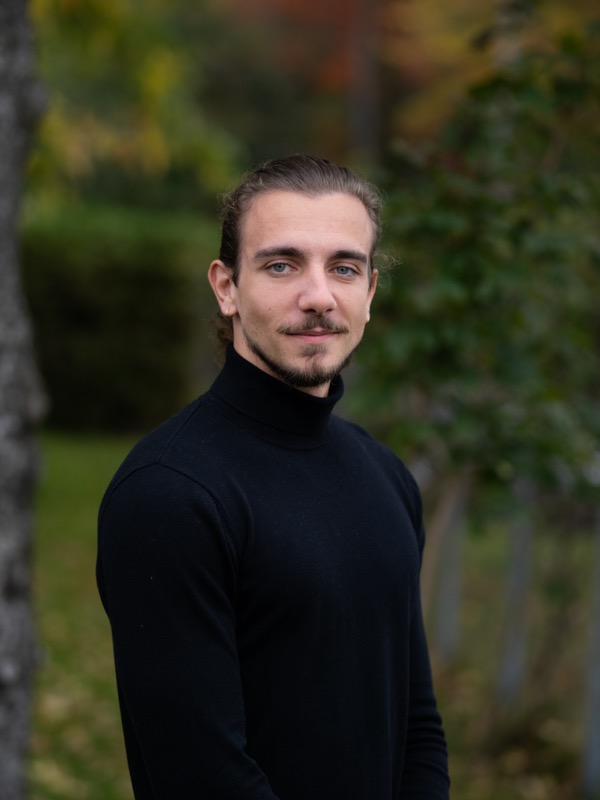
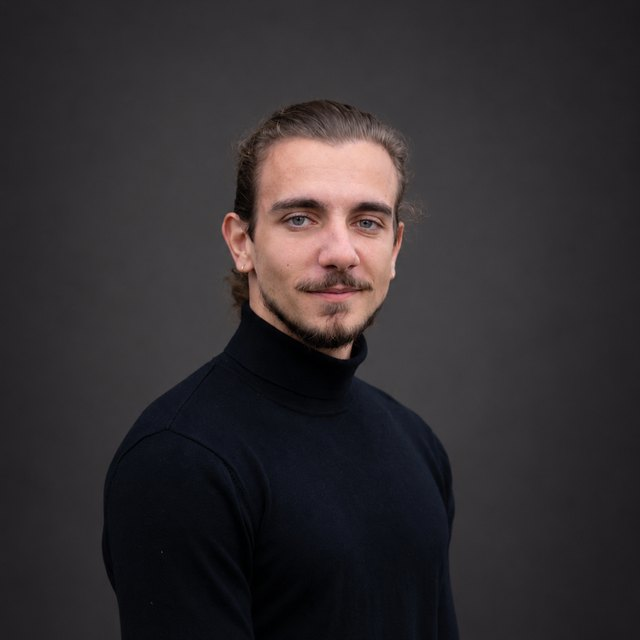
Liens reseaux sociaux, nouvelle photo de Benjamin et page Turing Inc.

diff --git a/turing.html b/turing.html
@@ -1,0 +1,145 @@
+<!DOCTYPE html>
+<html lang="fr">
+<head>
+    <meta charset="UTF-8">
+    <meta name="viewport" content="width=device-width, initial-scale=1.0">
+    <title>Turing Inc. — L'entreprise derrière MIA</title>
+    <meta name="description" content="Turing Inc., entreprise québécoise qui conçoit des solutions d'intelligence artificielle pour réduire la charge mentale des PME et TPE. MIA est son premier produit.">
+    <link rel="stylesheet" href="styles.css">
+    <link rel="preconnect" href="https://fonts.googleapis.com">
+    <link rel="preconnect" href="https://fonts.gstatic.com" crossorigin>
+    <link href="https://fonts.googleapis.com/css2?family=Inter:wght@300;400;500;600;700;800;900&display=swap" rel="stylesheet">
+    <link rel="icon" type="image/png" href="logo.png">
+    <link rel="apple-touch-icon" href="logo.png">
+</head>
+<body>
+    <!-- Navigation -->
+    <nav class="navbar">
+        <div class="container nav-container">
+            <a href="index.html" class="nav-logo">
+                <img src="logo.png" alt="MIA" class="logo-icon" width="53" height="32">
+                <span class="logo-text">MIA</span>
+            </a>
+            <ul class="nav-links">
+                <li><a href="index.html#tableau-de-bord">Tableau de bord</a></li>
+                <li><a href="index.html#features">Fonctionnalités</a></li>
+                <li><a href="index.html#how-it-works">Comment ça marche</a></li>
+                <li><a href="index.html#fondateurs">Nos fondateurs</a></li>
+                <li><a href="index.html#tarifs">Tarifs</a></li>
+                <li><a href="index.html#pilote" class="btn btn-nav">Devenir entreprise pilote <span class="btn-arrow">&rarr;</span></a></li>
+            </ul>
+            <button class="mobile-menu-btn" aria-label="Menu">
+                <span></span>
+                <span></span>
+                <span></span>
+            </button>
+        </div>
+    </nav>
+
+    <main class="about-page">
+        <section class="about-hero">
+            <div class="container about-container">
+                <span class="section-badge">À propos</span>
+                <h1 class="about-title">Turing Inc.</h1>
+                <p class="about-lead">MIA est développée et exploitée par Turing Inc., une entreprise par actions constituée au Québec, spécialisée dans la création de solutions d'intelligence artificielle destinées aux entrepreneurs.</p>
+            </div>
+        </section>
+
+        <section class="about-body">
+            <div class="container about-container">
+                <div class="about-block">
+                    <h2>Notre mission</h2>
+                    <p>Concevoir des outils qui réduisent la charge mentale des PME et TPE. Des solutions pragmatiques, ancrées dans la réalité du terrain, qui utilisent l'IA comme levier d'assistance et non comme substitut humain.</p>
+                </div>
+                <div class="about-block">
+                    <h2>Nos produits</h2>
+                    <p>MIA est notre premier produit. D'autres suivront.</p>
+                </div>
+                <div class="about-block">
+                    <h2>Notre équipe</h2>
+                    <p>Turing Inc. est représentée par Benjamin Taillefer et Julien D'Eer, au développement des affaires, et Maxime Vitellaro et Albert Bitreyeson au développement technologique.</p>
+                    <a href="index.html#fondateurs" class="about-link">Rencontrer les fondateurs <span class="btn-arrow">&rarr;</span></a>
+                </div>
+                <div class="about-contact">
+                    <span>Québec, Canada</span>
+                    <span aria-hidden="true">&middot;</span>
+                    <a href="mailto:contact@miacm.ca">contact@miacm.ca</a>
+                </div>
+            </div>
+        </section>
+    </main>
+
+    <!-- Footer -->
+    <footer class="footer">
+        <div class="container">
+            <div class="footer-main">
+                <div class="footer-brand">
+                    <a href="index.html" class="footer-logo">
+                        <img src="logo.png" alt="MIA" width="53" height="32">
+                        <span>MIA</span>
+                    </a>
+                    <p>Votre réputation ne peut pas attendre.</p>
+                    <ul class="footer-social" aria-label="MIA sur les réseaux sociaux">
+                        <li><a href="https://www.linkedin.com/company/mia-par-turing-inc/" target="_blank" rel="noopener" aria-label="LinkedIn">
+                            <svg viewBox="0 0 24 24" width="18" height="18" fill="currentColor" aria-hidden="true"><path d="M20.45 20.45h-3.56v-5.57c0-1.33-.03-3.04-1.85-3.04-1.85 0-2.14 1.45-2.14 2.94v5.67H9.35V9h3.41v1.56h.05c.48-.9 1.64-1.85 3.37-1.85 3.6 0 4.27 2.37 4.27 5.46v6.28zM5.34 7.43a2.06 2.06 0 1 1 0-4.13 2.06 2.06 0 0 1 0 4.13zM7.12 20.45H3.56V9h3.56v11.45zM22.22 0H1.77C.79 0 0 .77 0 1.73v20.54C0 23.23.79 24 1.77 24h20.45c.98 0 1.78-.77 1.78-1.73V1.73C24 .77 23.2 0 22.22 0z"/></svg>
+                        </a></li>
+                        <li><a href="https://www.facebook.com/profile.php?id=61594620976619" target="_blank" rel="noopener" aria-label="Facebook">
+                            <svg viewBox="0 0 24 24" width="18" height="18" fill="currentColor" aria-hidden="true"><path d="M24 12.07C24 5.41 18.63 0 12 0S0 5.41 0 12.07C0 18.1 4.39 23.1 10.13 24v-8.44H7.08v-3.49h3.05V9.41c0-3.02 1.79-4.69 4.53-4.69 1.31 0 2.68.24 2.68.24v2.97h-1.51c-1.49 0-1.96.93-1.96 1.89v2.26h3.33l-.53 3.49h-2.8V24C19.61 23.1 24 18.1 24 12.07z"/></svg>
+                        </a></li>
+                        <li><a href="https://www.instagram.com/mia_turinginc/" target="_blank" rel="noopener" aria-label="Instagram">
+                            <svg viewBox="0 0 24 24" width="18" height="18" fill="currentColor" aria-hidden="true"><path d="M12 2.16c3.2 0 3.58.01 4.85.07 1.17.05 1.8.25 2.23.41.56.22.96.48 1.38.9.42.42.68.82.9 1.38.16.42.36 1.06.41 2.23.06 1.27.07 1.65.07 4.85s-.01 3.58-.07 4.85c-.05 1.17-.25 1.8-.41 2.23-.22.56-.48.96-.9 1.38-.42.42-.82.68-1.38.9-.42.16-1.06.36-2.23.41-1.27.06-1.65.07-4.85.07s-3.58-.01-4.85-.07c-1.17-.05-1.8-.25-2.23-.41a3.72 3.72 0 0 1-1.38-.9 3.72 3.72 0 0 1-.9-1.38c-.16-.42-.36-1.06-.41-2.23C2.17 15.58 2.16 15.2 2.16 12s.01-3.58.07-4.85c.05-1.17.25-1.8.41-2.23.22-.56.48-.96.9-1.38.42-.42.82-.68 1.38-.9.42-.16 1.06-.36 2.23-.41C8.42 2.17 8.8 2.16 12 2.16M12 0C8.74 0 8.33.01 7.05.07 5.78.13 4.9.33 4.14.63a5.88 5.88 0 0 0-2.13 1.38A5.88 5.88 0 0 0 .63 4.14C.33 4.9.13 5.78.07 7.05.01 8.33 0 8.74 0 12s.01 3.67.07 4.95c.06 1.27.26 2.15.56 2.91.31.79.72 1.46 1.38 2.13a5.88 5.88 0 0 0 2.13 1.38c.76.3 1.64.5 2.91.56C8.33 23.99 8.74 24 12 24s3.67-.01 4.95-.07c1.27-.06 2.15-.26 2.91-.56a5.88 5.88 0 0 0 2.13-1.38 5.88 5.88 0 0 0 1.38-2.13c.3-.76.5-1.64.56-2.91.06-1.28.07-1.69.07-4.95s-.01-3.67-.07-4.95c-.06-1.27-.26-2.15-.56-2.91a5.88 5.88 0 0 0-1.38-2.13A5.88 5.88 0 0 0 19.86.63C19.1.33 18.22.13 16.95.07 15.67.01 15.26 0 12 0zm0 5.84a6.16 6.16 0 1 0 0 12.32 6.16 6.16 0 0 0 0-12.32zM12 16a4 4 0 1 1 0-8 4 4 0 0 1 0 8zm6.41-11.85a1.44 1.44 0 1 0 0 2.88 1.44 1.44 0 0 0 0-2.88z"/></svg>
+                        </a></li>
+                    </ul>
+                </div>
+                <div class="footer-links">
+                    <div class="footer-col">
+                        <h4>Produit</h4>
+                        <ul>
+                            <li><a href="index.html#features">Fonctionnalités</a></li>
+                            <li><a href="index.html#how-it-works">Comment ça marche</a></li>
+                            <li><a href="index.html#tarifs">Tarifs</a></li>
+                        </ul>
+                    </div>
+                    <div class="footer-col">
+                        <h4>Entreprise</h4>
+                        <ul>
+                            <li><a href="index.html#fondateurs">Nos fondateurs</a></li>
+                            <li><a href="turing.html">Turing Inc.</a></li>
+                            <li><a href="index.html#pilote">Devenir pilote</a></li>
+                            <li><a href="mailto:contact@miacm.ca">Contact</a></li>
+                        </ul>
+                    </div>
+                    <div class="footer-col">
+                        <h4>Légal</h4>
+                        <ul>
+                            <li><a href="politique-de-confidentialite.pdf" target="_blank" rel="noopener">Confidentialité</a></li>
+                            <li><a href="conditions-generales-utilisation.pdf" target="_blank" rel="noopener">Conditions</a></li>
+                        </ul>
+                    </div>
+                </div>
+            </div>
+            <div class="footer-bottom">
+                <p>&copy; 2026 MIA. Tous droits réservés. Produit créé par <a href="turing.html" class="footer-turing">Turing Inc.</a></p>
+                <a href="mailto:contact@miacm.ca" class="footer-email">contact@miacm.ca</a>
+            </div>
+        </div>
+    </footer>
+
+    <script>
+        // Mobile menu
+        const mobileMenuBtn = document.querySelector('.mobile-menu-btn');
+        const navLinks = document.querySelector('.nav-links');
+
+        mobileMenuBtn?.addEventListener('click', () => {
+            navLinks.classList.toggle('active');
+            mobileMenuBtn.classList.toggle('active');
+        });
+
+        // Navbar scroll effect
+        const navbar = document.querySelector('.navbar');
+        const updateNavbar = () => navbar.classList.toggle('scrolled', window.pageYOffset > 50);
+        window.addEventListener('scroll', updateNavbar);
+        updateNavbar();
+    </script>
+</body>
+</html>

diff --git a/index.html b/index.html
@@ -528,6 +528,17 @@
                         <span>MIA</span>
                     </a>
                     <p>Votre réputation ne peut pas attendre.</p>
+                    <ul class="footer-social" aria-label="MIA sur les réseaux sociaux">
+                        <li><a href="https://www.linkedin.com/company/mia-par-turing-inc/" target="_blank" rel="noopener" aria-label="LinkedIn">
+                            <svg viewBox="0 0 24 24" width="18" height="18" fill="currentColor" aria-hidden="true"><path d="M20.45 20.45h-3.56v-5.57c0-1.33-.03-3.04-1.85-3.04-1.85 0-2.14 1.45-2.14 2.94v5.67H9.35V9h3.41v1.56h.05c.48-.9 1.64-1.85 3.37-1.85 3.6 0 4.27 2.37 4.27 5.46v6.28zM5.34 7.43a2.06 2.06 0 1 1 0-4.13 2.06 2.06 0 0 1 0 4.13zM7.12 20.45H3.56V9h3.56v11.45zM22.22 0H1.77C.79 0 0 .77 0 1.73v20.54C0 23.23.79 24 1.77 24h20.45c.98 0 1.78-.77 1.78-1.73V1.73C24 .77 23.2 0 22.22 0z"/></svg>
+                        </a></li>
+                        <li><a href="https://www.facebook.com/profile.php?id=61594620976619" target="_blank" rel="noopener" aria-label="Facebook">
+                            <svg viewBox="0 0 24 24" width="18" height="18" fill="currentColor" aria-hidden="true"><path d="M24 12.07C24 5.41 18.63 0 12 0S0 5.41 0 12.07C0 18.1 4.39 23.1 10.13 24v-8.44H7.08v-3.49h3.05V9.41c0-3.02 1.79-4.69 4.53-4.69 1.31 0 2.68.24 2.68.24v2.97h-1.51c-1.49 0-1.96.93-1.96 1.89v2.26h3.33l-.53 3.49h-2.8V24C19.61 23.1 24 18.1 24 12.07z"/></svg>
+                        </a></li>
+                        <li><a href="https://www.instagram.com/mia_turinginc/" target="_blank" rel="noopener" aria-label="Instagram">
+                            <svg viewBox="0 0 24 24" width="18" height="18" fill="currentColor" aria-hidden="true"><path d="M12 2.16c3.2 0 3.58.01 4.85.07 1.17.05 1.8.25 2.23.41.56.22.96.48 1.38.9.42.42.68.82.9 1.38.16.42.36 1.06.41 2.23.06 1.27.07 1.65.07 4.85s-.01 3.58-.07 4.85c-.05 1.17-.25 1.8-.41 2.23-.22.56-.48.96-.9 1.38-.42.42-.82.68-1.38.9-.42.16-1.06.36-2.23.41-1.27.06-1.65.07-4.85.07s-3.58-.01-4.85-.07c-1.17-.05-1.8-.25-2.23-.41a3.72 3.72 0 0 1-1.38-.9 3.72 3.72 0 0 1-.9-1.38c-.16-.42-.36-1.06-.41-2.23C2.17 15.58 2.16 15.2 2.16 12s.01-3.58.07-4.85c.05-1.17.25-1.8.41-2.23.22-.56.48-.96.9-1.38.42-.42.82-.68 1.38-.9.42-.16 1.06-.36 2.23-.41C8.42 2.17 8.8 2.16 12 2.16M12 0C8.74 0 8.33.01 7.05.07 5.78.13 4.9.33 4.14.63a5.88 5.88 0 0 0-2.13 1.38A5.88 5.88 0 0 0 .63 4.14C.33 4.9.13 5.78.07 7.05.01 8.33 0 8.74 0 12s.01 3.67.07 4.95c.06 1.27.26 2.15.56 2.91.31.79.72 1.46 1.38 2.13a5.88 5.88 0 0 0 2.13 1.38c.76.3 1.64.5 2.91.56C8.33 23.99 8.74 24 12 24s3.67-.01 4.95-.07c1.27-.06 2.15-.26 2.91-.56a5.88 5.88 0 0 0 2.13-1.38 5.88 5.88 0 0 0 1.38-2.13c.3-.76.5-1.64.56-2.91.06-1.28.07-1.69.07-4.95s-.01-3.67-.07-4.95c-.06-1.27-.26-2.15-.56-2.91a5.88 5.88 0 0 0-1.38-2.13A5.88 5.88 0 0 0 19.86.63C19.1.33 18.22.13 16.95.07 15.67.01 15.26 0 12 0zm0 5.84a6.16 6.16 0 1 0 0 12.32 6.16 6.16 0 0 0 0-12.32zM12 16a4 4 0 1 1 0-8 4 4 0 0 1 0 8zm6.41-11.85a1.44 1.44 0 1 0 0 2.88 1.44 1.44 0 0 0 0-2.88z"/></svg>
+                        </a></li>
+                    </ul>
                 </div>
                 <div class="footer-links">
                     <div class="footer-col">
@@ -542,6 +553,7 @@
                         <h4>Entreprise</h4>
                         <ul>
                             <li><a href="#fondateurs">Nos fondateurs</a></li>
+                            <li><a href="turing.html">Turing Inc.</a></li>
                             <li><a href="#pilote">Devenir pilote</a></li>
                             <li><a href="mailto:contact@miacm.ca">Contact</a></li>
                         </ul>
@@ -556,7 +568,7 @@
                 </div>
             </div>
             <div class="footer-bottom">
-                <p>&copy; 2026 MIA. Tous droits réservés. Produit créé par Turing Inc.</p>
+                <p>&copy; 2026 MIA. Tous droits réservés. Produit créé par <a href="turing.html" class="footer-turing">Turing Inc.</a></p>
                 <a href="mailto:contact@miacm.ca" class="footer-email">contact@miacm.ca</a>
             </div>
         </div>

diff --git a/styles.css b/styles.css
@@ -1054,6 +1054,50 @@ h3 { font-size: clamp(1.125rem, 2vw, 1.375rem); }
     opacity: 0.9;
 }
 
+/* About page (turing.html) */
+.about-container { max-width: 760px; }
+.about-hero {
+    padding: 160px 0 64px;
+    background: var(--bg-light);
+}
+.about-title { margin-bottom: 20px; }
+.about-lead {
+    font-size: 1.1875rem;
+    line-height: 1.7;
+    color: var(--text-secondary);
+}
+.about-body { padding: 64px 0 96px; }
+.about-block {
+    padding: 32px 0;
+    border-bottom: 1px solid var(--border);
+}
+.about-block:first-child { padding-top: 0; }
+.about-block h2 {
+    font-size: clamp(1.25rem, 2.5vw, 1.5rem);
+    margin-bottom: 12px;
+}
+.about-block p {
+    font-size: 1.0625rem;
+    line-height: 1.7;
+    color: var(--text-secondary);
+}
+.about-link {
+    display: inline-flex;
+    gap: 6px;
+    margin-top: 16px;
+    font-weight: 600;
+    color: var(--primary-dark);
+}
+.about-link:hover .btn-arrow { transform: translateX(3px); }
+.about-contact {
+    display: flex;
+    flex-wrap: wrap;
+    gap: 8px;
+    padding-top: 32px;
+    color: var(--text-secondary);
+}
+.about-contact a { color: var(--primary-dark); font-weight: 500; }
+
 /* Footer */
 .footer {
     background: var(--bg-dark);
@@ -1081,6 +1125,25 @@ h3 { font-size: clamp(1.125rem, 2vw, 1.375rem); }
     font-size: 0.9375rem;
     max-width: 280px;
 }
+.footer-social {
+    display: flex;
+    gap: 12px;
+    margin-top: 24px;
+}
+.footer-social a {
+    display: flex;
+    align-items: center;
+    justify-content: center;
+    width: 40px;
+    height: 40px;
+    border-radius: 50%;
+    background: rgba(255,255,255,0.08);
+    color: rgba(255,255,255,0.8);
+    transition: background var(--transition-fast), color var(--transition-fast);
+}
+.footer-social a:hover { background: var(--primary); color: white; }
+.footer-turing { color: inherit; text-decoration: underline; text-underline-offset: 2px; }
+.footer-turing:hover { color: white; }
 .footer-links {
     display: grid;
     grid-template-columns: repeat(3, 1fr);
